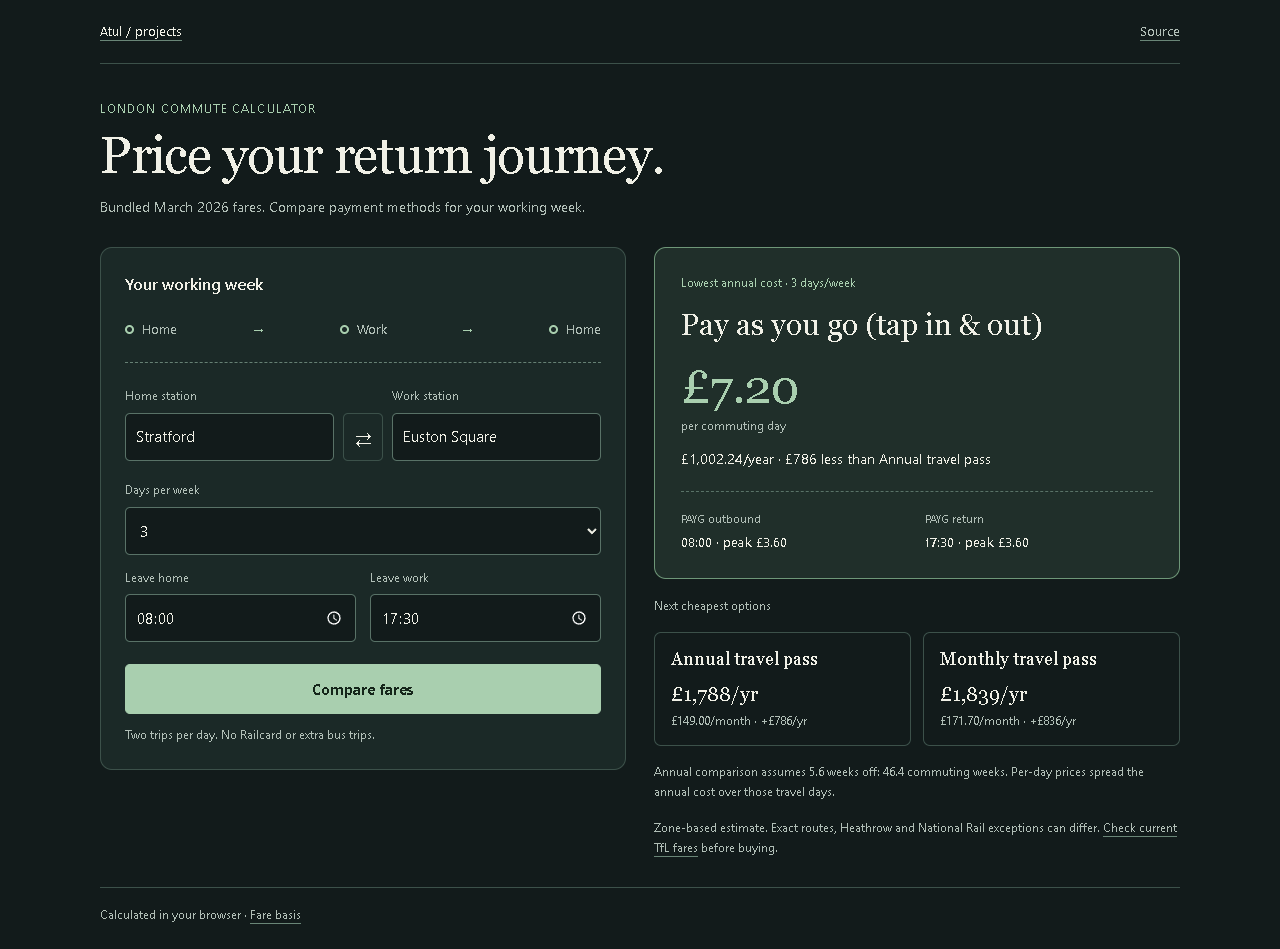
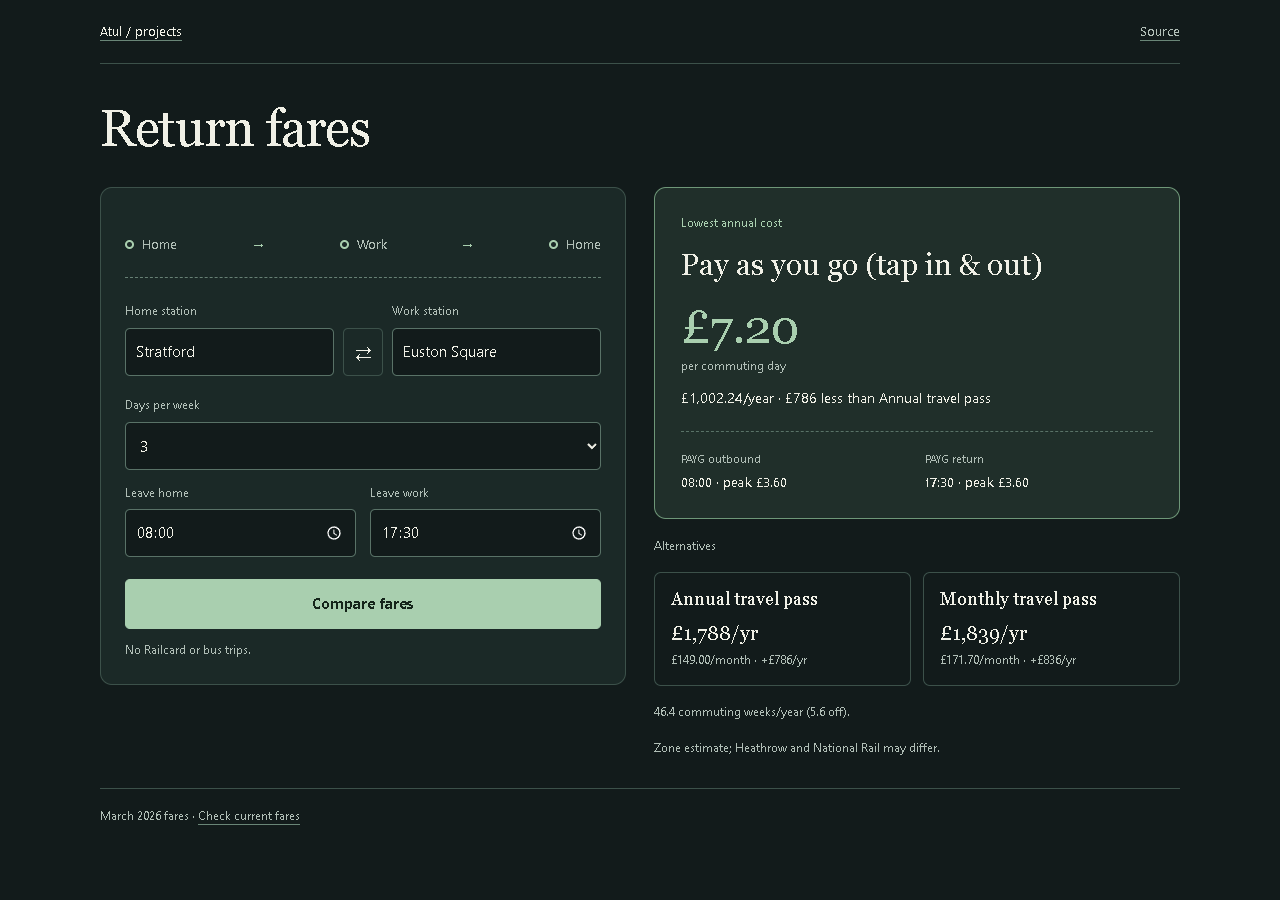
Cut redundant demo copy and keep essential warnings

diff --git a/examples/portfolio/index.html b/examples/portfolio/index.html
@@ -3,8 +3,8 @@
 <link rel="stylesheet" href="style.css"></head><body>
 <header class="top"><a href="https://lolstar123.github.io/just-a-little-further/">Atul / projects</a><nav><a href="https://github.com/LolStar123/london-commute-calculator">Source</a></nav></header>
 <main>
-<section class="hero"><p class="eyebrow">London commute calculator</p><h1>Price your return journey.</h1><p class="fare-basis">Bundled March 2026 fares. Compare payment methods for your working week.</p></section><div class="journey-layout">
-<section class="planner" aria-label="Return journey"><div class="ticket-heading"><h2>Your working week</h2></div><div class="route-trace" aria-hidden="true"><span><i></i>Home</span><b>→</b><span><i></i>Work</span><b>→</b><span><i></i>Home</span></div>
+<section class="hero"><h1>Return fares</h1></section><div class="journey-layout">
+<section class="planner" aria-label="Return journey"><div class="route-trace" aria-hidden="true"><span><i></i>Home</span><b>→</b><span><i></i>Work</span><b>→</b><span><i></i>Home</span></div>
 <div class="srow">
 <div class="fg"><label for="fromStation">Home station</label><input class="si" id="fromStation" autocomplete="off" placeholder="Search stations" role="combobox" aria-autocomplete="list" aria-expanded="false" aria-controls="fromDD"><div class="acd" id="fromDD" role="listbox" aria-label="Home station suggestions"></div></div>
 <button class="swap" id="swapBtn" type="button" aria-label="Swap stations">⇄</button>
@@ -12,14 +12,14 @@
 </div>
 <div class="compact"><div class="fg"><label for="days">Days per week</label><select class="si" id="days"><option value="1">1</option><option value="2">2</option><option value="3" selected>3</option><option value="4">4</option><option value="5">5</option></select></div><div class="fg"><label for="dept">Leave home</label><input class="si" type="time" id="dept" value="08:00"></div><div class="fg"><label for="ret">Leave work</label><input class="si" type="time" id="ret" value="17:30"></div></div>
 <div id="jbar" class="jbar"><div id="zvis"></div><div id="fprev"></div></div><div id="jerr" class="jerr" role="status"></div>
-<button class="go-btn" id="goBtn" type="button">Compare fares</button><div id="goHint" role="status"></div><p class="ticket-note">Two trips per day. No Railcard or extra bus trips.</p>
+<button class="go-btn" id="goBtn" type="button">Compare fares</button><div id="goHint" role="status"></div><p class="ticket-note">No Railcard or bus trips.</p>
 </section>
-<div class="results" id="res" aria-live="polite"><section class="section results-shell"><div class="reco" id="reco" tabindex="-1"></div><div class="alternatives-heading">Next cheapest options</div><div class="g-cards" id="oGrid"></div><p class="estimate-note">Annual comparison assumes 5.6 weeks off: 46.4 commuting weeks. Per-day prices spread the annual cost over those travel days.</p><p class="estimate-note">Zone-based estimate. Exact routes, Heathrow and National Rail exceptions can differ. <a href="https://tfl.gov.uk/fares/">Check current TfL fares</a> before buying.</p></section><div id="switchBanner"></div><div id="timeTip"></div><div id="rcTip"></div>
+<div class="results" id="res" aria-live="polite"><section class="section results-shell"><div class="reco" id="reco" tabindex="-1"></div><div class="alternatives-heading">Alternatives</div><div class="g-cards" id="oGrid"></div><p class="estimate-note">46.4 commuting weeks/year (5.6 off).</p><p class="estimate-note">Zone estimate; Heathrow and National Rail may differ.</p></section><div id="switchBanner"></div><div id="timeTip"></div><div id="rcTip"></div>
 <div class="support">
 <select id="trips"><option value="2" selected>2</option></select><select id="bus"><option value="0" selected>0</option></select><input id="leave" value="5.6"><select id="rc"><option value="none" selected>none</option></select><input id="sal"><select id="curMethod"><option value="unknown" selected>unknown</option></select>
 <span id="mInd"></span><span id="eInd"></span><div id="teaser"></div><div id="tips"></div><div id="wfhBars"></div><div id="beSection"></div><div id="beChart"></div><div id="beCrossover"></div><div id="driveSection"></div><div id="dComp"></div><div id="cycSection"></div><div id="cycGrid"></div><div id="mbar"></div><div id="mbarLabel"></div><div id="loanSec"></div><div id="loanBox"></div><div id="fstats"></div><div id="htbSteps"></div><div id="faq"></div><div id="closingText"></div><button id="ctaPrint"></button><div id="tableWrap"><table><tbody id="tbody"></tbody></table></div><button id="recalcBtn"></button><button id="printBtn"></button><button id="shareBtn"></button><button id="resetBtn"></button><button id="btt"></button><div id="ps1"></div><div id="ps2"></div><div id="ps3"></div><div id="pl1"></div><div id="pl2"></div>
 </div></div>
-</div></main><footer>Calculated in your browser · <a href="https://github.com/LolStar123/london-commute-calculator/blob/main/PROVENANCE.md">Fare basis</a></footer>
+</div></main><footer>March 2026 fares · <a href="https://tfl.gov.uk/fares/">Check current fares</a></footer>
 <script>
             // â”€â”€ STATIONS â”€â”€
             const ST = {
@@ -1152,10 +1152,10 @@
                         !timesOk
                             ? "Enter both travel times."
                             : !fOk && !tOk
-                            ? "Pick your departure and arrival stations above to get started"
+                            ? "Choose both stations."
                             : !fOk
-                              ? "Now pick your departure station"
-                              : "Now pick your arrival station";
+                              ? "Choose a home station."
+                              : "Choose a work station.";
                 }
             }
 
@@ -1176,7 +1176,7 @@
                     if (from && to && from === to && ST[from] != null) {
                         jbar.classList.remove("vis");
                         jerr.textContent =
-                            "You've picked the same station for both. Choose a different destination to see your commute costs.";
+                            "Choose different home and work stations.";
                         jerr.classList.add("vis");
                         document.getElementById("res").classList.remove("vis");
                         return;
@@ -1279,7 +1279,7 @@
                         returnFare = sf ? (hrow || ep ? sf.p : sf.o) : 0,
                         outboundLabel = hrow || mp ? "peak" : "off-peak",
                         returnLabel = hrow || ep ? "peak" : "off-peak";
-                    recoEl.innerHTML = `<div class="winner-badge">Lowest annual cost · ${days} days/week</div><h2>${LABELS[cheap.name]}</h2><div class="price">£${dailyCost}</div><span class="daily-unit">per commuting day</span><p>£${cheap.annual.toLocaleString()}/year${nextSaving > 0 ? ` · £${nextSaving.toLocaleString()} less than ${LABELS[nextCheapest.name]}` : ""}</p><div class="return-basis"><span>PAYG outbound <b>${dt} · ${outboundLabel} £${outboundFare.toFixed(2)}</b></span><span>PAYG return <b>${rt} · ${returnLabel} £${returnFare.toFixed(2)}</b></span></div>`;
+                    recoEl.innerHTML = `<div class="winner-badge">Lowest annual cost</div><h2>${LABELS[cheap.name]}</h2><div class="price">£${dailyCost}</div><span class="daily-unit">per commuting day</span><p>£${cheap.annual.toLocaleString()}/year${nextSaving > 0 ? ` · £${nextSaving.toLocaleString()} less than ${LABELS[nextCheapest.name]}` : ""}</p><div class="return-basis"><span>PAYG outbound <b>${dt} · ${outboundLabel} £${outboundFare.toFixed(2)}</b></span><span>PAYG return <b>${rt} · ${returnLabel} £${returnFare.toFixed(2)}</b></span></div>`;
 
                     // Cards
                     document.getElementById("oGrid").innerHTML = res.slice(1, 3)
@@ -2191,7 +2191,7 @@
                 if (from && to && from === to && ST[from] != null) {
                     jbar.classList.remove("vis");
                     jerr.textContent =
-                        "You've picked the same station for both. Choose a different destination to see your commute costs.";
+                        "Choose different home and work stations.";
                     jerr.classList.add("vis");
                     document.getElementById("res").classList.remove("vis");
                     return;
